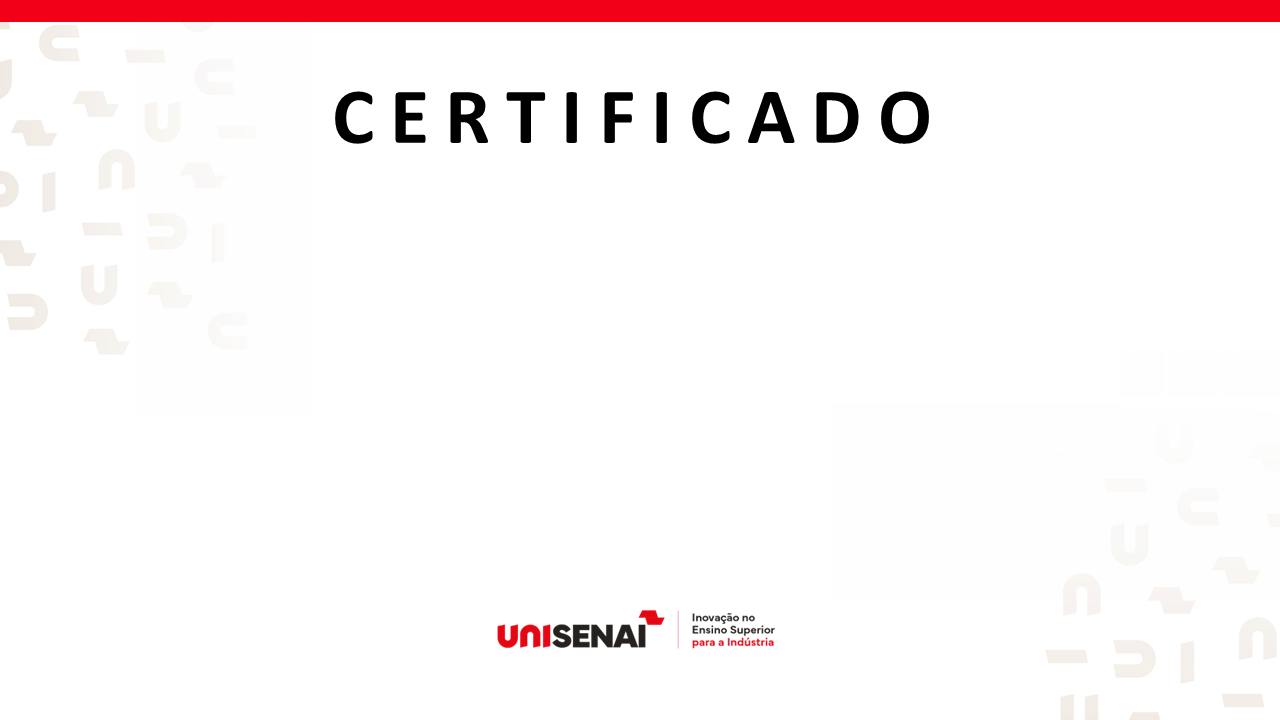
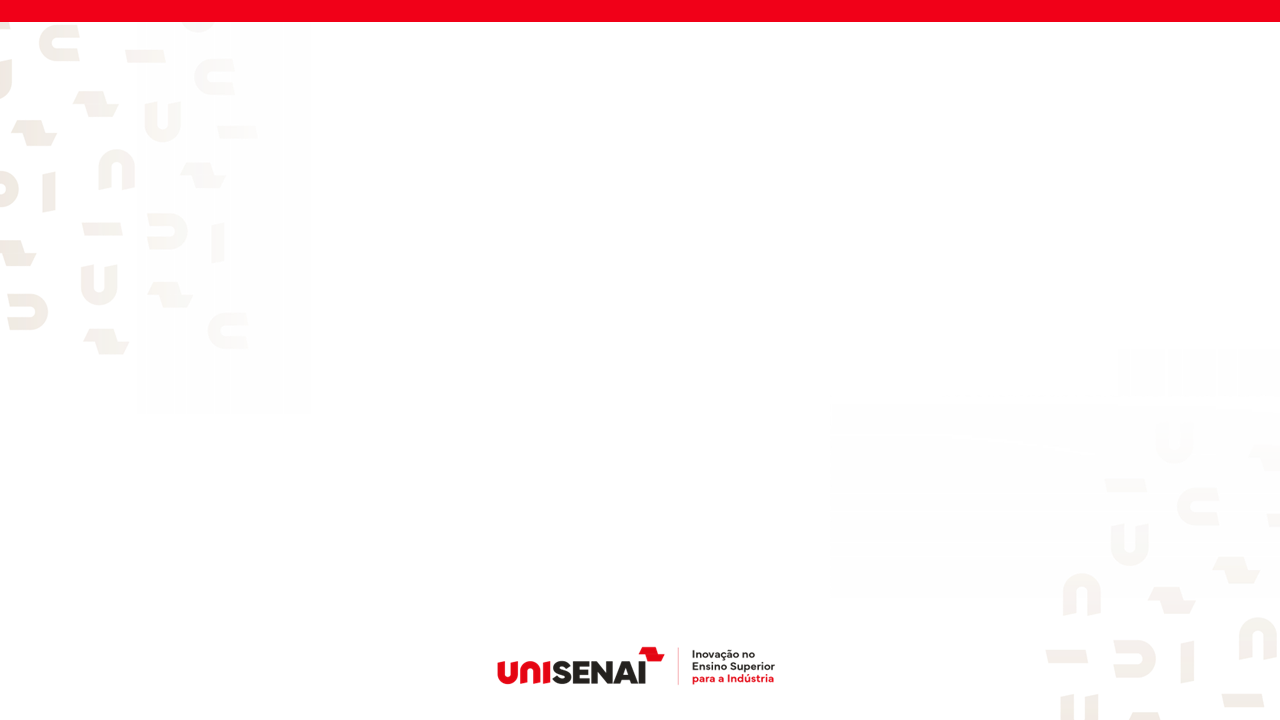
feat: implement dashboard layout and certificates page with print functionality [deploy]

Changed region(s): [[0.25, 0.1222, 0.75, 0.2139], [0.375, 0.825, 0.625, 0.9472]]

diff --git a/src/pages/Certificates.jsx b/src/pages/Certificates.jsx
@@ -1,6 +1,6 @@
 import React, { useState, useRef } from "react";
 import { useQuery } from "@tanstack/react-query";
-import { Award, Printer, GraduationCap, BookOpen, Star, Trophy, ChevronRight } from "lucide-react";
+import { Award, Printer, GraduationCap, BookOpen, Star, Trophy, ChevronRight, Lock } from "lucide-react";
 import { CertificateService, UserService } from "@/services";
 import { Button } from "@/components/ui/button";
 import { useToast } from "@/components/ui/use-toast";
@@ -8,7 +8,7 @@ import { useToast } from "@/components/ui/use-toast";
 export default function Certificates() {
   const [activeTab, setActiveTab] = useState("my"); // "my" or "rankings"
   const [printData, setPrintData] = useState(null); // certificate details currently selected for print/view
-  const [useCustomBg, setUseCustomBg] = useState(false);
+  const [useCustomBg, setUseCustomBg] = useState(true);
   const printRef = useRef(null);
   const { toast } = useToast();
 
@@ -135,25 +135,60 @@ export default function Certificates() {
               <div className="grid grid-cols-1 md:grid-cols-2 gap-6">
                 {myCertificates.map((cert, index) => {
                   const isWinner = cert.type === "melhor_projeto";
+                  const isLocked = cert.eligible === false;
                   return (
-                    <div key={index} className="bg-white border border-border p-6 flex flex-col justify-between hover:shadow-md transition-all relative">
-                      {isWinner && <div className="absolute right-4 top-4 bg-amber-100 text-amber-800 text-[10px] font-bold px-2 py-0.5 rounded-none flex items-center gap-1 border border-amber-300"><Trophy className="w-3 h-3" /> DESTAQUE</div>}
-                      <div>
-                        <div className="w-12 h-12 bg-primary/10 border border-primary/20 flex items-center justify-center mb-4">
-                          <Award className="w-6 h-6 text-primary" />
+                    <div
+                      key={index}
+                      className={`bg-white border border-border p-6 flex flex-col justify-between transition-all relative ${
+                        isLocked ? "opacity-75 bg-slate-50/50" : "hover:shadow-md"
+                      }`}
+                    >
+                      {isWinner && (
+                        <div className="absolute right-4 top-4 bg-amber-100 text-amber-800 text-[10px] font-bold px-2 py-0.5 rounded-none flex items-center gap-1 border border-amber-300">
+                          <Trophy className="w-3 h-3" /> DESTAQUE
                         </div>
-                        <h3 className="font-bold text-lg font-heading mb-1">{cert.title}</h3>
+                      )}
+                      {isLocked && (
+                        <div className="absolute right-4 top-4 bg-slate-100 text-slate-500 text-[10px] font-bold px-2 py-0.5 rounded-none flex items-center gap-1 border border-slate-300">
+                          <Lock className="w-3 h-3" /> REQUISITOS PENDENTES
+                        </div>
+                      )}
+                      <div>
+                        <div className={`w-12 h-12 flex items-center justify-center mb-4 border ${
+                          isLocked 
+                            ? "bg-slate-100 border-slate-200" 
+                            : "bg-primary/10 border-primary/20"
+                        }`}>
+                          {isLocked ? (
+                            <Lock className="w-6 h-6 text-slate-400" />
+                          ) : (
+                            <Award className="w-6 h-6 text-primary" />
+                          )}
+                        </div>
+                        <h3 className={`font-bold text-lg font-heading mb-1 ${isLocked ? "text-slate-500" : ""}`}>
+                          {cert.title}
+                        </h3>
                         <p className="text-xs text-muted-foreground mb-4">{cert.description}</p>
                       </div>
                       <div className="border-t border-muted pt-4 flex items-center justify-between">
-                        <span className="text-xs font-semibold text-muted-foreground">Destinatário: {cert.recipientName}</span>
-                        <Button
-                          onClick={() => openPrintPreview(cert)}
-                          size="sm"
-                          className="bg-primary text-primary-foreground text-xs uppercase font-bold tracking-wider rounded-none gap-1.5"
-                        >
-                          <Printer className="w-4 h-4" /> Visualizar
-                        </Button>
+                        <span className="text-xs font-semibold text-muted-foreground">
+                          Destinatário: {cert.recipientName}
+                        </span>
+                        {!isLocked ? (
+                          <Button
+                            onClick={() => openPrintPreview(cert)}
+                            size="sm"
+                            className="bg-primary text-primary-foreground text-xs uppercase font-bold tracking-wider rounded-none gap-1.5"
+                          >
+                            <Printer className="w-4 h-4" /> Visualizar
+                          </Button>
+                        ) : (
+                          cert.details?.evalsCount !== undefined && (
+                            <span className="text-xs font-bold text-destructive">
+                              {cert.details.evalsCount} de {cert.details.evalsRequired || 4} concluídos
+                            </span>
+                          )
+                        )}
                       </div>
                     </div>
                   );
@@ -320,15 +355,6 @@ export default function Certificates() {
         <div className="fixed inset-0 bg-black/60 z-50 flex items-center justify-center p-4 print:p-0 print:static print:bg-transparent overflow-y-auto">
           {/* Controls Bar (Hidden during print) */}
           <div className="absolute top-4 right-4 flex gap-2 print:hidden z-50 bg-black/80 p-2 border border-white/20">
-            <label className="flex items-center gap-1.5 text-[10px] font-bold uppercase tracking-wider text-white cursor-pointer mr-3">
-              <input
-                type="checkbox"
-                checked={useCustomBg}
-                onChange={(e) => setUseCustomBg(e.target.checked)}
-                className="rounded-none accent-primary border-border"
-              />
-              Fundo Personalizado (/img/certificate_bg.png)
-            </label>
             <Button onClick={handlePrint} className="bg-primary text-primary-foreground text-xs uppercase font-bold tracking-wider rounded-none gap-1">
               <Printer className="w-4 h-4" /> Imprimir
             </Button>
@@ -362,10 +388,7 @@ export default function Certificates() {
               <h4 className="text-[10px] tracking-[0.25em] font-bold text-amber-700 uppercase font-sans">
                 UniSENAI SP - CAMPUS SOROCABA
               </h4>
-              <div className="flex justify-center my-2">
-                <Trophy className="w-10 h-10 text-amber-500" />
-              </div>
-              <h2 className="text-4xl font-extrabold text-slate-900 tracking-wide uppercase">
+              <h2 className="text-6xl font-extrabold text-slate-900 tracking-wide uppercase py-4">
                 {printData.type === "melhor_projeto" ? "CERTIFICADO DE DESTAQUE" : "CERTIFICADO"}
               </h2>
               <div className="w-32 h-0.5 bg-amber-600 mx-auto" />
@@ -373,7 +396,9 @@ export default function Certificates() {
 
             {/* Content Body */}
             <div className="text-center px-12 space-y-6 z-10">
-              <p className="text-base italic text-slate-700">Concedido com honras para</p>
+              <p className="text-base italic text-slate-700">
+                {printData.type === "melhor_projeto" ? "Concedido com honras para" : "Concedido para"}
+              </p>
               <h3 className="text-3xl font-bold font-sans text-slate-950 border-b border-muted max-w-2xl mx-auto pb-1">
                 {printData.recipientName}
               </h3>
@@ -406,12 +431,12 @@ export default function Certificates() {
             <div className="grid grid-cols-2 gap-8 text-center pt-8 z-10 px-16 font-sans">
               <div className="space-y-1">
                 <div className="border-b border-slate-400 w-48 mx-auto" />
-                <p className="text-[10px] font-bold uppercase tracking-wider text-slate-800">Direção Acadêmica</p>
-                <p className="text-[9px] text-slate-500">UniSENAI SP Sorocaba</p>
+                <p className="text-[10px] font-bold uppercase tracking-wider text-slate-800">Lucas Miguel Leal da Silva</p>
+                <p className="text-[9px] text-slate-500">Coordenador de Campus</p>
               </div>
               <div className="space-y-1">
                 <div className="border-b border-slate-400 w-48 mx-auto" />
-                <p className="text-[10px] font-bold uppercase tracking-wider text-slate-800">Coordenação de Projetos</p>
+                <p className="text-[10px] font-bold uppercase tracking-wider text-slate-800">Comissão Organizadora</p>
                 <p className="text-[9px] text-slate-500">Ciclo de Inovação 2026</p>
               </div>
             </div>

diff --git a/src/components/dashboard/DashboardLayout.jsx b/src/components/dashboard/DashboardLayout.jsx
@@ -28,7 +28,7 @@ const studentNavItems = [
   { label: "Dashboard", path: "/dashboard", icon: LayoutDashboard },
   { label: "Projetos", path: "/dashboard/projetos", icon: FolderOpen },
   { label: "Avaliações", path: "/dashboard/avaliacoes", icon: ClipboardCheck },
-  // { label: "Certificados", path: "/dashboard/certificados", icon: Award },
+  { label: "Certificados", path: "/dashboard/certificados", icon: Award },
   { label: "Perfil", path: "/dashboard/perfil", icon: User },
   { label: "Fotos", path: "/dashboard/fotos", icon: Camera },
 ];
